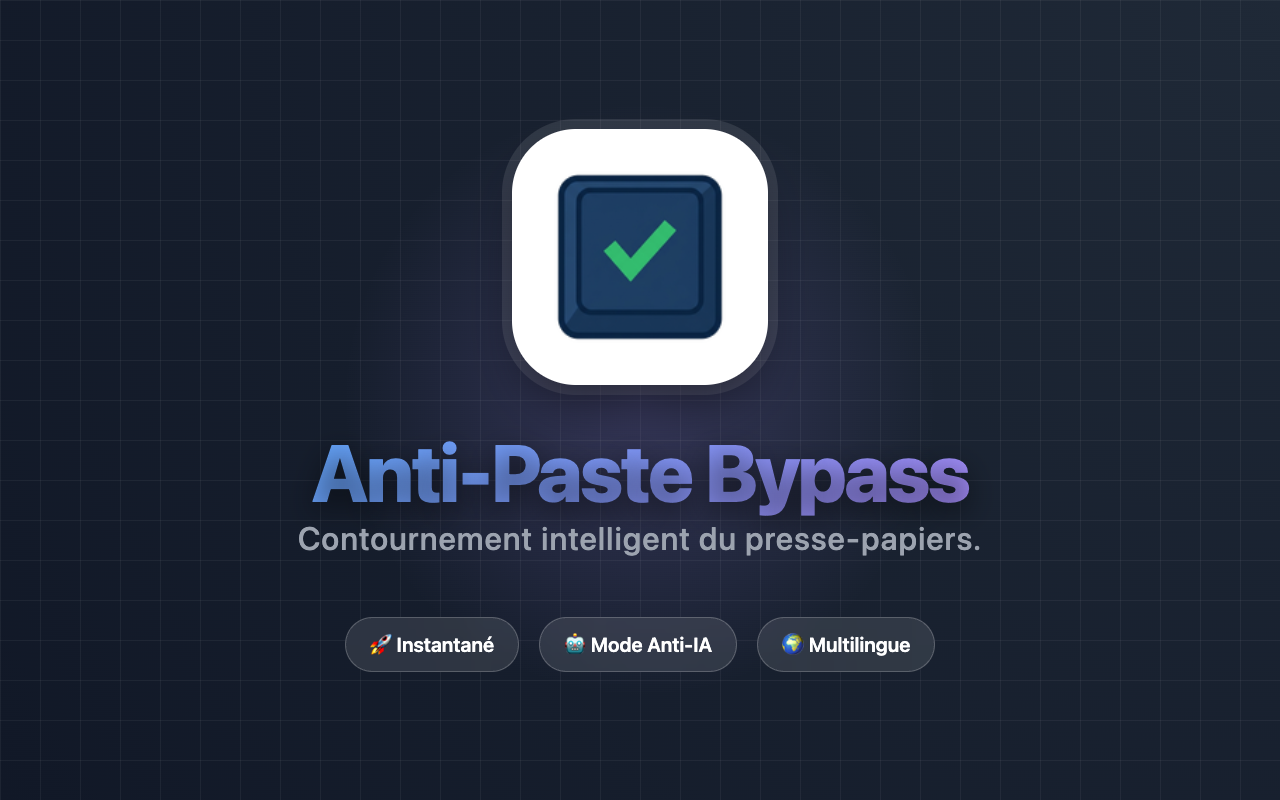
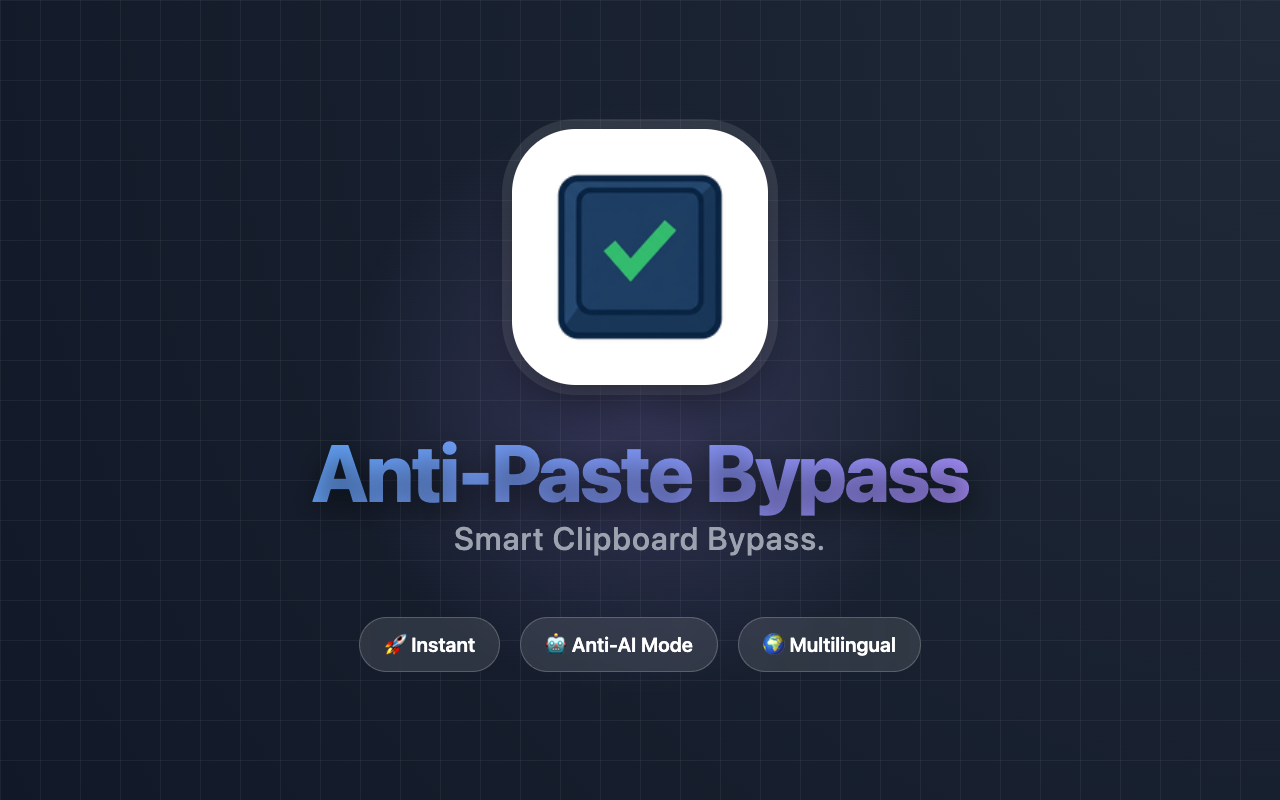
chore: Translated promo images to English

Changed region(s): [[0.25, 0.7812, 0.75, 0.8438], [0.2188, 0.6562, 0.7812, 0.6875]]

diff --git a/promo_generator.html b/promo_generator.html
@@ -108,13 +108,13 @@
     
     <div>
       <h1>Anti-Paste Bypass</h1>
-      <p>Contournement intelligent du presse-papiers.</p>
+      <p>Smart Clipboard Bypass.</p>
     </div>
 
     <div class="badge-container">
-      <div class="badge">🚀 Instantané</div>
-      <div class="badge">🤖 Mode Anti-IA</div>
-      <div class="badge">🌍 Multilingue</div>
+      <div class="badge">🚀 Instant</div>
+      <div class="badge">🤖 Anti-AI Mode</div>
+      <div class="badge">🌍 Multilingual</div>
     </div>
   </div>
 </body>

diff --git a/promo_generator_440x280.html b/promo_generator_440x280.html
@@ -108,12 +108,12 @@
     
     <div>
       <h1>Anti-Paste Bypass</h1>
-      <p>Contournement intelligent du presse-papiers.</p>
+      <p>Smart Clipboard Bypass.</p>
     </div>
 
     <div class="badge-container">
-      <div class="badge">🚀 Rapide</div>
-      <div class="badge">🤖 Anti-IA</div>
+      <div class="badge">🚀 Fast</div>
+      <div class="badge">🤖 Anti-AI</div>
     </div>
   </div>
 </body>